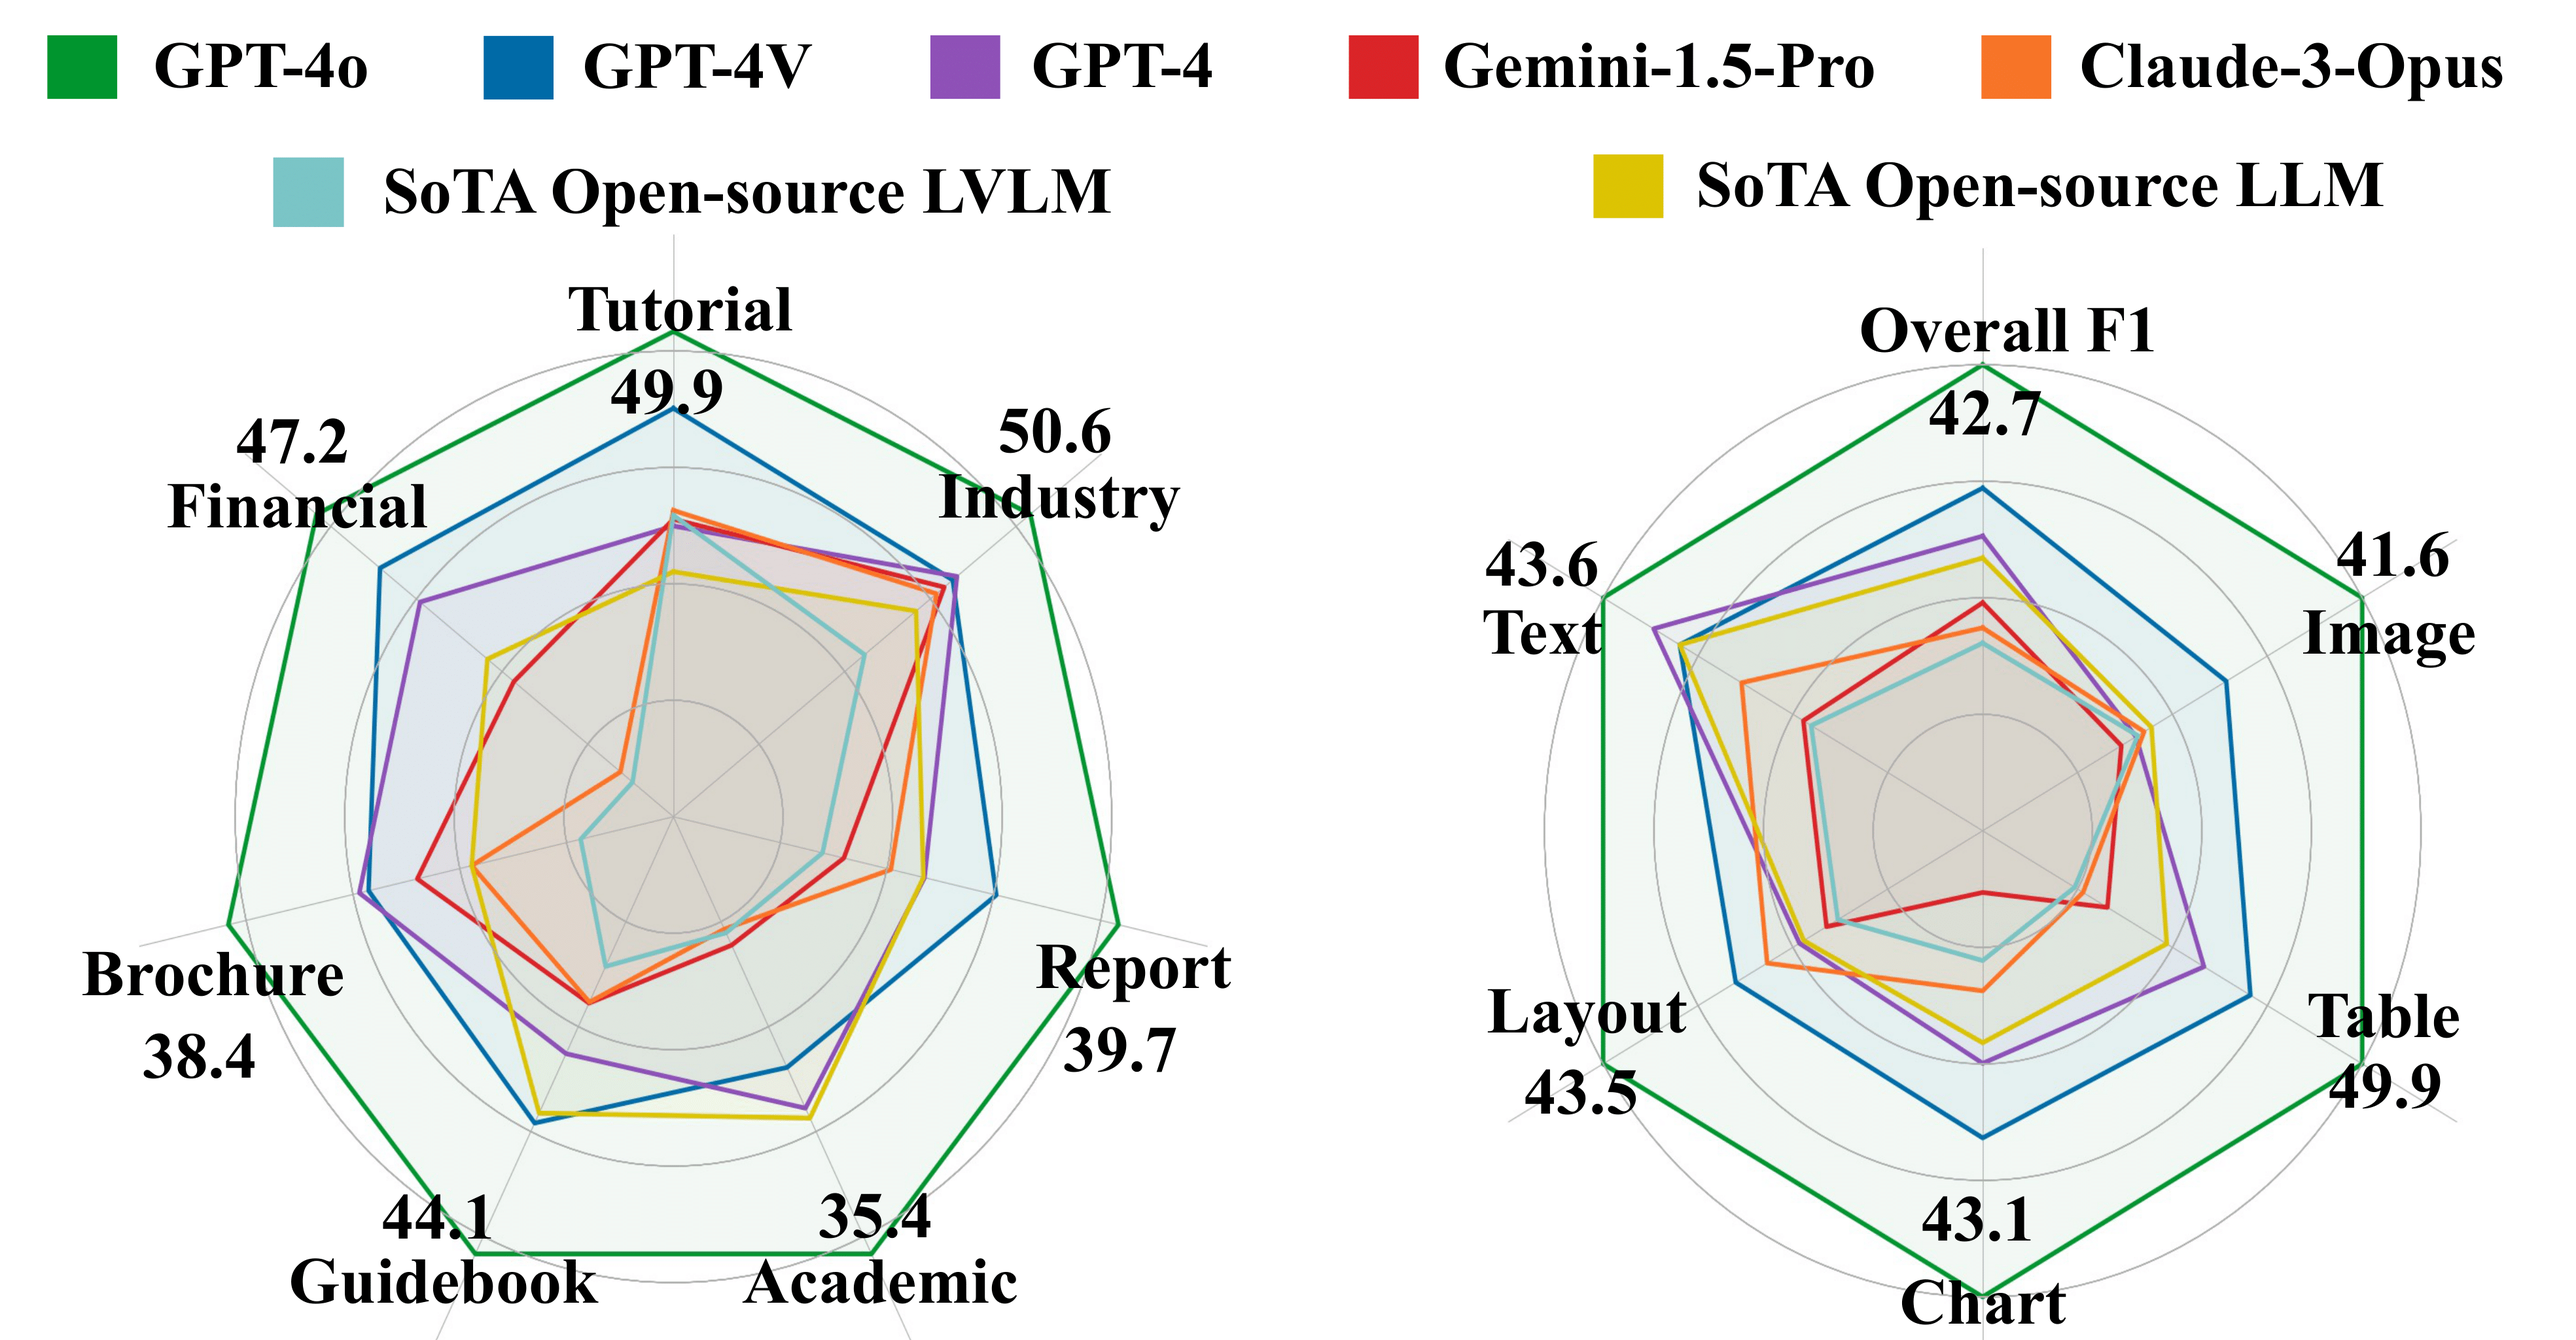
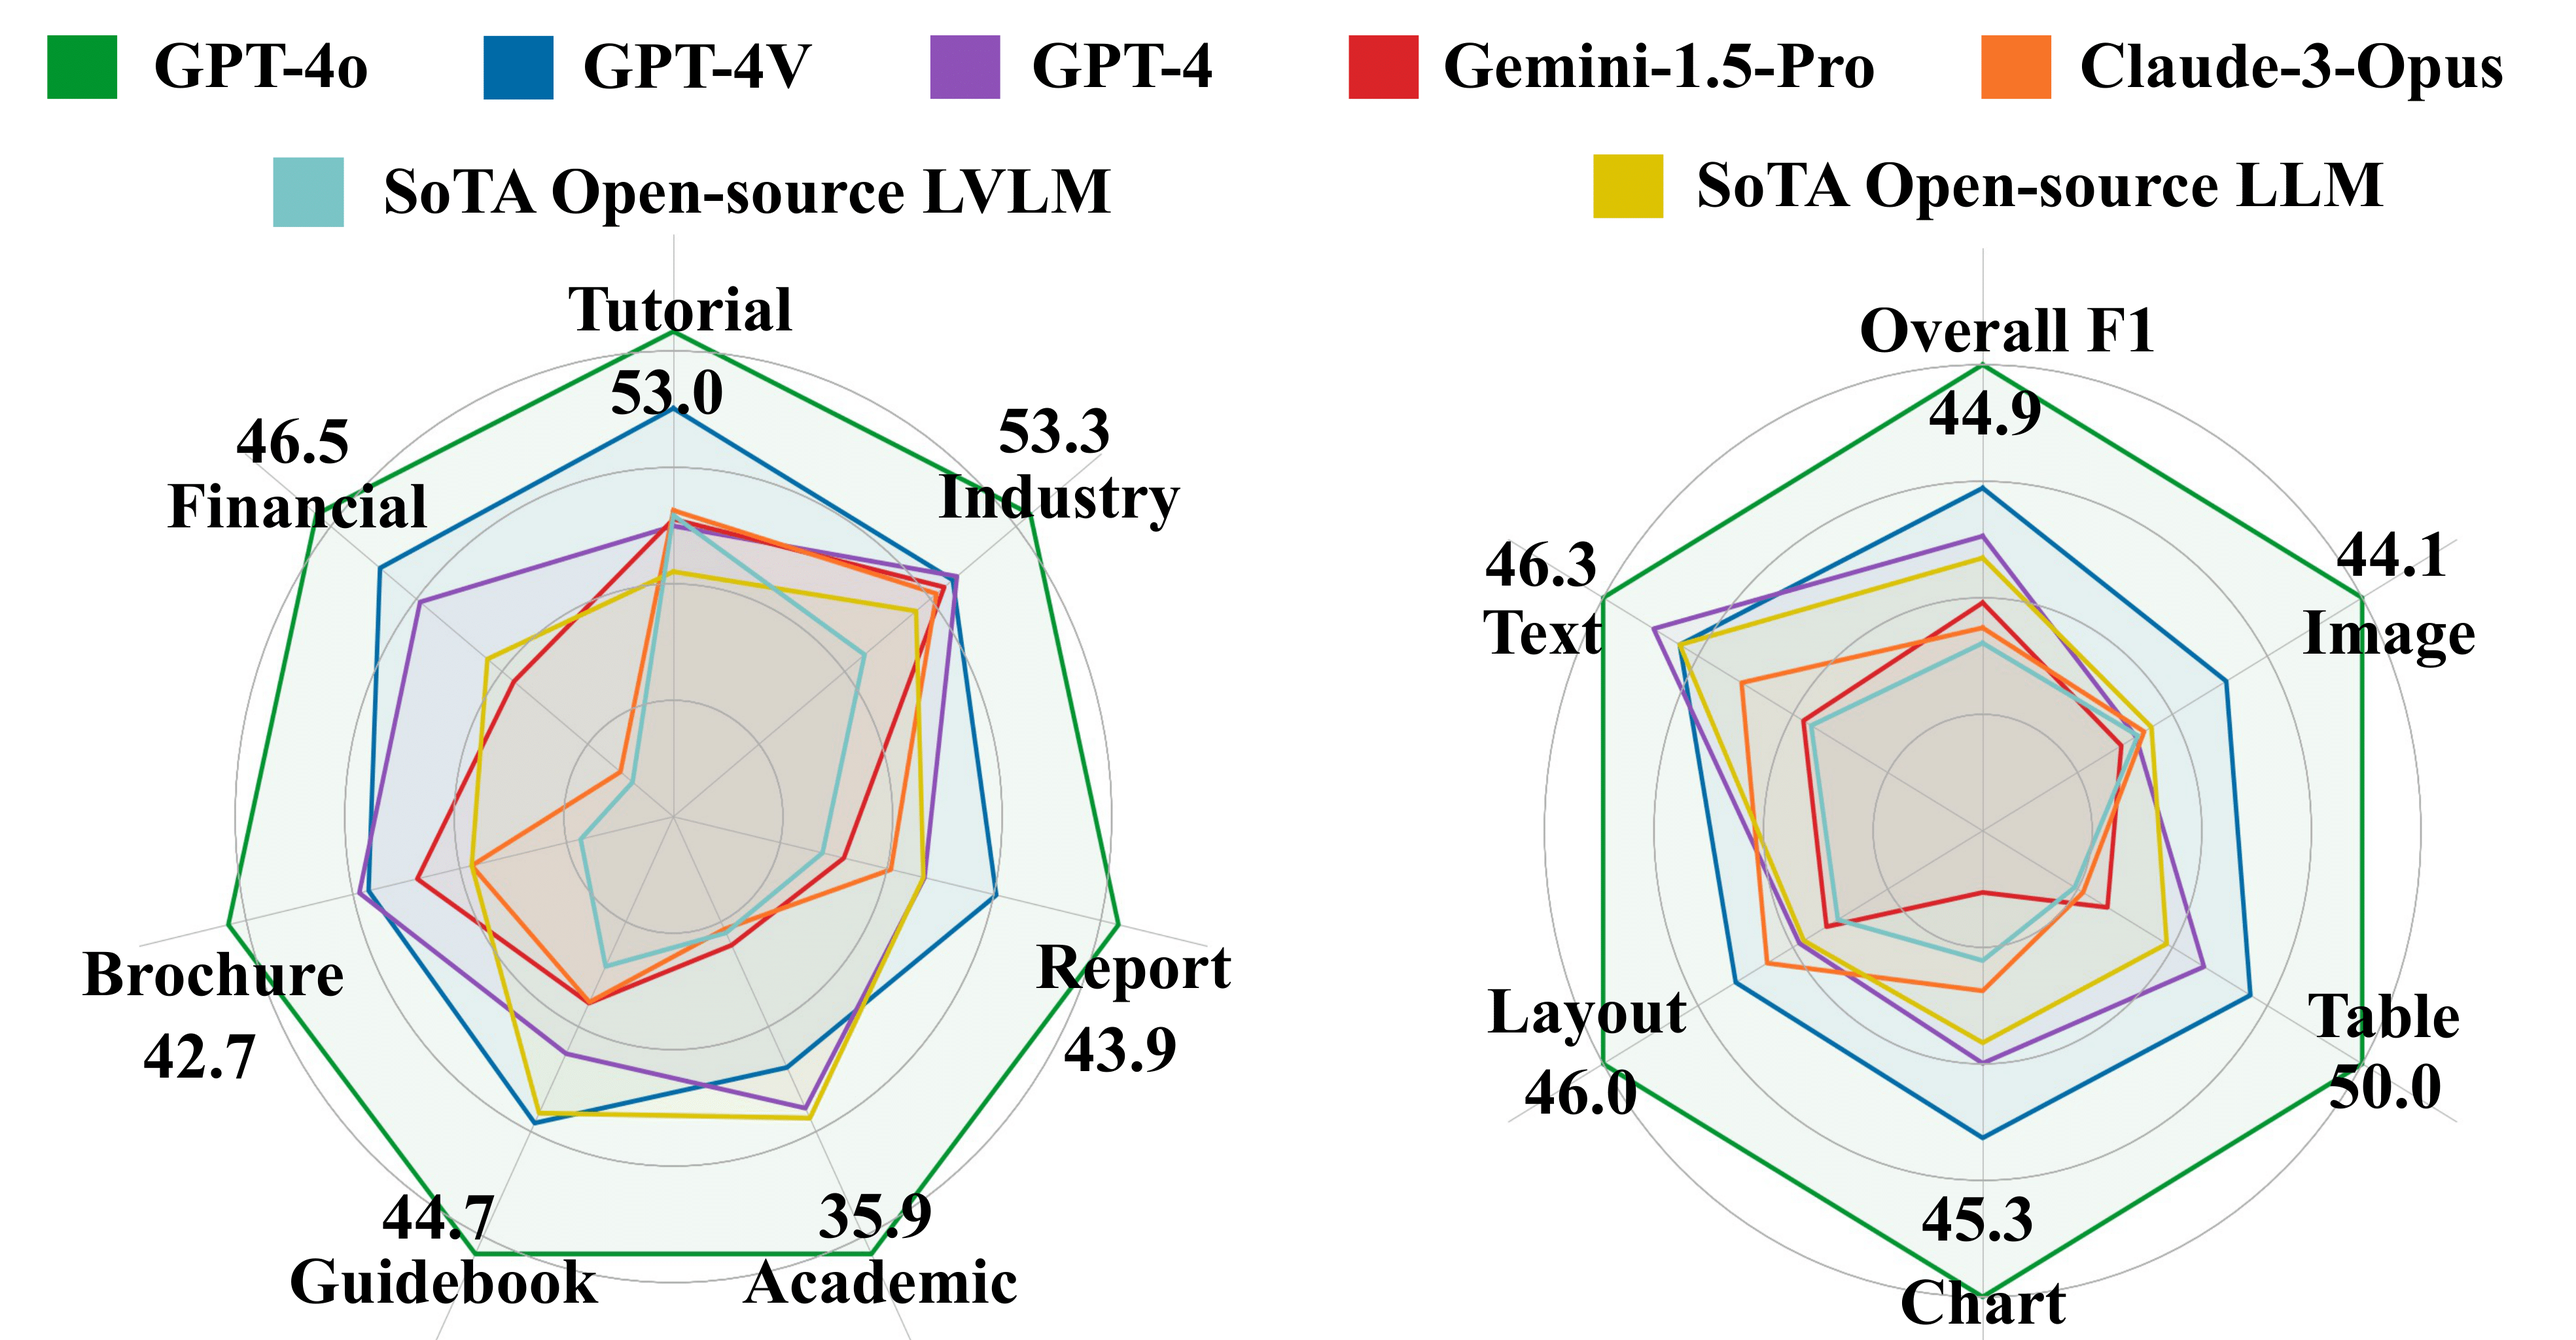
update project page

diff --git a/MMLongBench-Doc/index.html b/MMLongBench-Doc/index.html
@@ -129,22 +129,22 @@
         <div class="column has-text-centered">
           <h1 class="title is-1 publication-title"> <span class="rainbow-text">MMLongBench-Doc</span>: Benchmarking Long-context Document Understanding with Visualizations</h1>
           <div class="is-size-5 publication-authors">
-              <span class="author-block"> <a href="">Yubo Ma</a><sup>1</sup>,</span>
-              <span class="author-block"> <a href="">Yuhang Zang</a><sup>&dagger;2</sup><sup>,</span>
-              <span class="author-block"> <a href="">Liangyu Chen</a><sup>1</sup>,</span>
-              <span class="author-block"> <a href="">Meiqi Chen</a><sup>3</sup>,</span>
-              <span class="author-block"> <a href="">Yizhu Jiao</a><sup>4</sup>, </span>
+              <span class="author-block"> <a href="https://mayubo2333.github.io">Yubo Ma</a><sup>1</sup>,</span>
+              <span class="author-block"> <a href="https://yuhangzang.github.io">Yuhang Zang</a><sup>&dagger;2</sup><sup>,</span>
+              <span class="author-block"> <a href="https://cliangyu.com">Liangyu Chen</a><sup>1</sup>,</span>
+              <span class="author-block"> <a href="https://chenmeiqii.github.io">Meiqi Chen</a><sup>3</sup>,</span>
+              <span class="author-block"> <a href="https://yzjiao.github.io">Yizhu Jiao</a><sup>4</sup>, </span>
               <span class="author-block"> <a href="">Xinze Li</a><sup>1</sup>, </span>
-              <span class="author-block"> <a href="">Xinyuan Lu</a><sup>5</sup>, </span>
-              <span class="author-block"> <a href="">Ziyu Liu</a><sup>6</sup>, </span>
+              <span class="author-block"> <a href="https://xinyuanlu00.github.io">Xinyuan Lu</a><sup>5</sup>, </span>
+              <span class="author-block"> <a href="https://liuziyu77.github.io">Ziyu Liu</a><sup>6</sup>, </span>
               <span class="author-block"> <a href="">Yan Ma</a><sup>7</sup>, </span>
-              <span class="author-block"> <a href="">Xiaoyi Dong</a><sup>2</sup>, </span>
-              <span class="author-block"> <a href="">Pan Zhang</a><sup>2</sup>, </span>
-              <span class="author-block"> <a href="">Liangming Pan</a><sup>8</sup>, </span>
+              <span class="author-block"> <a href="https://lightdxy.github.io">Xiaoyi Dong</a><sup>2</sup>, </span>
+              <span class="author-block"> <a href="https://panzhang0212.github.io">Pan Zhang</a><sup>2</sup>, </span>
+              <span class="author-block"> <a href="http://www.liangmingpan.com">Liangming Pan</a><sup>8</sup>, </span>
               <span class="author-block"> <a href="">Yu-Gang Jiang</a><sup>9</sup>, </span>
-              <span class="author-block"> <a href="">Jiaqi Wang</a><sup>2</sup>, </span>
-              <span class="author-block"> <a href="">Yixin Cao</a><sup>&dagger;9</sup><sup>,</span>
-              <span class="author-block"> <a href="">Aixin Sun</a><sup>1</sup> </span>
+              <span class="author-block"> <a href="https://myownskyw7.github.io">Jiaqi Wang</a><sup>2</sup>, </span>
+              <span class="author-block"> <a href="https://sites.google.com/view/yixin-homepage">Yixin Cao</a><sup>&dagger;9</sup><sup>,</span>
+              <span class="author-block"> <a href="https://personal.ntu.edu.sg/axsun">Aixin Sun</a><sup>1</sup> </span>
             </div>
 
           <div class="is-size-5 publication-authors">
@@ -152,7 +152,7 @@
               <span class="author-block"><sup>2</sup>Shanghai AI Laboratory</span>
               <span class="author-block"><sup>3</sup>Peking University</span>
               <span class="author-block"><sup>4</sup>University of Illinois Urbana-Champaign</span>
-              <span class="author-block"><sup>5</sup>University of Illinois Urbana-Champaign</span>
+              <span class="author-block"><sup>5</sup>National University of Singapore</span>
               <span class="author-block"><sup>6</sup>Wuhan University</span>
               <span class="author-block"><sup>7</sup>Singapore Management University</span>
               <span class="author-block"><sup>8</sup>University of California, Santa Barbara</span>
@@ -197,7 +197,7 @@
 			}
 		  </style>
           <p>
-            Understanding documents with rich layouts and multi-modal components is a long-standing and practical task. Recent Large Vision-Language Models (LVLMs) have made remarkable strides in various tasks, particularly in single-page document understanding (DU). However, their abilities on long-context DU remain an open problem. This work presents <b>MMLongBench-Doc</b>, a long-context, multi-modal benchmark comprising 1,062 expert-annotated questions. Distinct from previous datasets, it is constructed upon 130 lengthy PDF-formatted documents with an average of 49.4 pages and 20,971 textual tokens. Towards comprehensive evaluation, answers to these questions rely on pieces of evidence from (1) different sources (text, image, chart, table, and layout structure) and (2) various locations (<i>i.e.</i>, page number). Moreover, 33.2% of the questions are <i>cross-page questions</i> requiring evidence across multiple pages. 22.8% of the questions are designed to be <i>unanswerable</i> for detecting potential hallucinations. Experiments on 14 LVLMs demonstrate that long-context DU greatly challenges current models. Notably, the best-performing model, GPT-4o, achieves an F1 score of only 42.7%, while the second-best, GPT-4V, scores 31.4%. Furthermore, 12 LVLMs (all except GPT-4o and GPT-4V) even present worse performance than their LLM counterparts which are fed with lossy-parsed OCR documents. These results validate the necessity of future research toward more capable long-context LVLMs.
+            Understanding documents with rich layouts and multi-modal components is a long-standing and practical task. Recent Large Vision-Language Models (LVLMs) have made remarkable strides in various tasks, particularly in single-page document understanding (DU). However, their abilities on long-context DU remain an open problem. This work presents <b>MMLongBench-Doc</b>, a long-context, multi-modal benchmark comprising 1,091 expert-annotated questions. Distinct from previous datasets, it is constructed upon 130 lengthy PDF-formatted documents with an average of 47.5 pages and 21,214 textual tokens. Towards comprehensive evaluation, answers to these questions rely on pieces of evidence from (1) different sources (text, image, chart, table, and layout structure) and (2) various locations (<i>i.e.</i>, page number). Moreover, 33.0% of the questions are <i>cross-page questions</i> requiring evidence across multiple pages. 22.5% of the questions are designed to be <i>unanswerable</i> for detecting potential hallucinations. Experiments on 14 LVLMs demonstrate that long-context DU greatly challenges current models. Notably, the best-performing model, GPT-4o, achieves an F1 score of only 44.9%, while the second-best, GPT-4V, scores 30.5%. Furthermore, 12 LVLMs (all except GPT-4o and GPT-4V) even present worse performance than their LLM counterparts which are fed with lossy-parsed OCR documents. These results validate the necessity of future research toward more capable long-context LVLMs.
           </p>
       </div>
     </div>
@@ -213,9 +213,8 @@
               <p style="font-size: 15px;">
                 <ul>
                 <li><b>Multi-modality: </b>All selected documents are PDF-formatted with rich layouts and multi-modal components including text, table, chart and image. We annotate questions carefully from these multi-modal evidences.</li>
-                <li><b>Long-context: </b> Each document has an average of 49.4 pages and 20,971 tokens. Additionally, 33.2% of the questions are <i>cross-page</i> questions which necessitate the information collection and reasoning over multiple pages.</li> 
-                <li><b>Diverse: </b>This benchmark is constructed upon 130 documents across 7 diverse domains, including Research Report, Financial Report, Academic Paper, Brochure, Guideline, Administration & Industry File and Tutorial / Workshop.</li>
-                <li><b>Challenging: </b> Experiments on 14 LVLMs demonstrate that long-context document understanding greatly challenges current models. Even the best-performing LVLM, GPT-4o, achieves an overall F1 score of only 42.7%.</li>
+                <li><b>Long-context: </b> Each document has an average of 47.5 pages and 21,214 tokens. Additionally, 33.0% of the questions are <i>cross-page</i> questions which necessitate the information collection and reasoning over multiple pages.</li> 
+                <li><b>Challenging: </b> Experiments on 14 LVLMs demonstrate that long-context document understanding greatly challenges current models. Even the best-performing LVLM, GPT-4o, achieves an overall F1 score of only 44.9%.</li>
                 </ul>
               </p>
             </div>
@@ -239,7 +238,7 @@
 	              <p>
                 The automatic understanding of lengthy documents (Long-context Document Understanding; DU) stands as a long-standing task in urgent and practical needs. Although many LVLMs now claim (and show promising cases) their capabilities on long-context DU, there lacks a unified and quantitative evaluation of existing models due to the absence of related benchmark.
                 <br>
-                To bridge this gap, we construct <span class="rainbow-text">MMLongBench-Doc</span> which comprises 130 documents and 1062 qustions (each accompanied by a short, deterministic reference answer and detailed meta information.). The documents have an average of 49 pages and 20,971 tokens, cover 7 diverse domains, and are PDF-formatted with rich layouts and multi-modal components. The questions are either curated from existing datasets or newly-annotated by expert-level annotators. Towards a comprehensive evaluation, the questions cover different sources like text, table, chart, image, <i>etc.</i>, and different locations (page index) of the documents. Notably, 33.2% questions are cross-page questions necessitating comprehension and reasoning on evidences across multiple pages. And 22.8% questions are designed to be unanswerable for reducing the shortcuts in this benchmark and detecting LVLMs' hallucinations.
+                To bridge this gap, we construct <span class="rainbow-text">MMLongBench-Doc</span> which comprises 135 documents and 1091 qustions (each accompanied by a short, deterministic reference answer and detailed meta information.). The documents have an average of 47.5 pages and 21,214 tokens, cover 7 diverse domains, and are PDF-formatted with rich layouts and multi-modal components. The questions are either curated from existing datasets or newly-annotated by expert-level annotators. Towards a comprehensive evaluation, the questions cover different sources like text, table, chart, image, <i>etc.</i>, and different locations (page index) of the documents. Notably, 33.0% questions are cross-page questions necessitating comprehension and reasoning on evidences across multiple pages. And 22.5% questions are designed to be unanswerable for reducing the shortcuts in this benchmark and detecting LVLMs' hallucinations.
                 <br>
                 <centering>
                   <div style="text-align: center;">
@@ -290,7 +289,7 @@
 	              <p>
                   We conduct extensive experiments on MMLONGBENCH-DOC to evaluate the long-context DU abilities of 14 LVLMs (fed with PNG-formatted screenshots). For comparison, we also evaluate 10 LLMs (fed with OCR-parsed, TXT-formatted tokens). Our key findings are summarized as follows. 
                 <ul>
-                  <li> Our benchmark poses significant challenges to current LVLMs. The best-performing LVLM, GPT-4o, achieves an overall F1 score of only 42.7%. while the second-best LVLM, GPT-4V, scores 31.4%. Among open-source evaluated LVLMs, only InternVL-Chat-v1.5 achieves more than 10% F1 score.</li>
+                  <li> Our benchmark poses significant challenges to current LVLMs. The best-performing LVLM, GPT-4o, achieves an overall F1 score of only 44.9%. while the second-best LVLM, GPT-4V, scores 30.5%. Among open-source evaluated LVLMs, only InternVL-Chat-v1.5 achieves more than 10% F1 score.</li>
                   <li> 12 out of 14 LVLMs (except GPT-4o and GPT-4v) present inferior performance than their LLM counterparts, even though LLMs handle lossy, OCR-parsed texts. We speculate that the scarce related pre-training corpus (<i>i.e.</i>, extremely multi-image or lengthy documents) hinders the long-context DU capabilities of LVLMs. We will leave related explorations for future work.</li>
                 </ul>
                 <centering>
